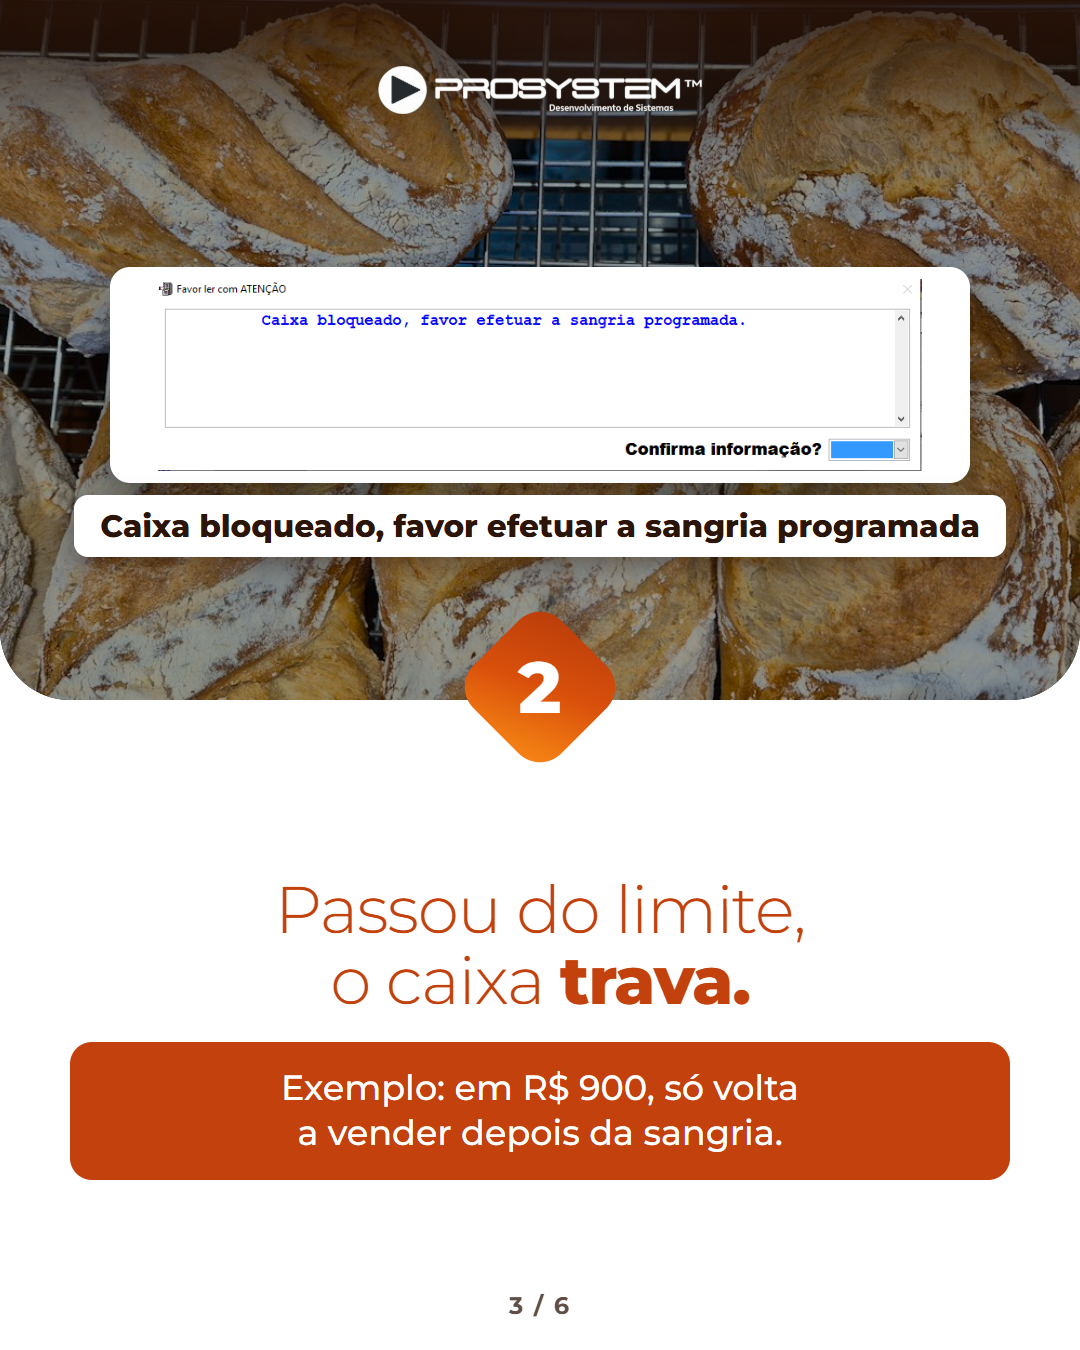
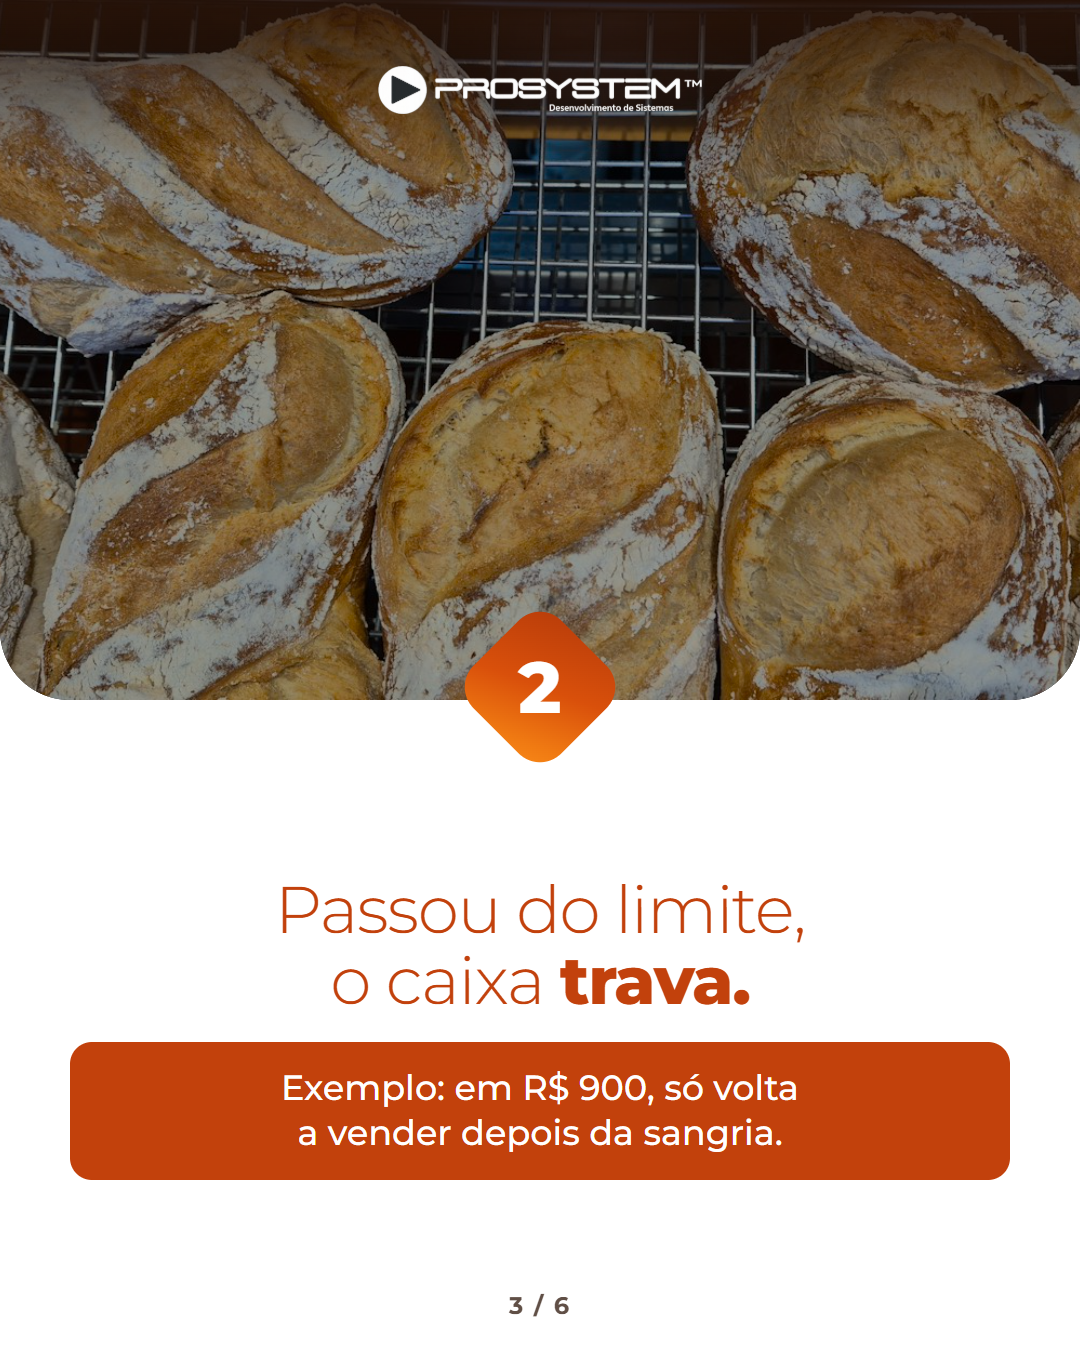
Carrossel da sangria (04/12): slide 3 sem a tela de bloqueio, que repetia a janela do aviso

Changed region(s): [[0.0611, 0.1867, 0.9472, 0.4356]]

diff --git a/docs/contexto/relatorios/2026-11-03-sangria-sem-tela-repetida.md b/docs/contexto/relatorios/2026-11-03-sangria-sem-tela-repetida.md
@@ -1,0 +1,21 @@
+# 03/11/2026 — Carrossel da sangria (padaria, 04/12): tela do sistema sem repetir
+
+## Pedido
+Print do documento de aprovação com o carrossel `carrossel-padaria-sangria-v2`: "pedi para nao repedir a mesma tela do sistema para nao ficar repetitivo, corrija".
+
+## Feito
+- `outputs/criativos/nov-dez/pecas-dados.js`: tirada a tela `sangria-bloqueio` do slide 3. A janela era a mesma do aviso no slide 2, só com outra frase. O slide 3 fica com a foto da grade de pães e o texto. Texto alternativo atualizado.
+- Peça regerada com `node gerar.js carrossel-padaria-sangria-v2` (`pecas/carrossel-padaria-sangria-v2-1.png` a `-6.png`).
+- `outputs/criativos/nov-dez/legendas.md`: `sangria-bloqueio` saiu da lista de mockups que a Jessica precisa fazer.
+- Documento https://claude.ai/artifact/3nx4JXdXoomuc4SZF91rCj: grade nova do 04/12 (1220×1010), "Aguarda mockup" só com `sangria-aviso` e `sangria-registro`, e `sangria-bloqueio` fora da lista de mockups.
+
+## Verificado
+- A mudança em `pecas-dados.js` entrou no commit ad081b4, de outra sessão que rodava ao mesmo tempo.
+- Gerador sem estouro de texto. Grade conferida: tela de aviso só no slide 2, tela de registro só no slide 4, os outros só com foto.
+- Outra sessão mexeu no documento ao mesmo tempo (revs 36 a 39: ficou só o 04/12 pendente). As mudanças dela foram mantidas.
+
+## Decisões e porquês
+- Aviso e bloqueio são a mesma janela do sistema. Pela regra de não repetir tela ("melhor deixar sem do que repetir"), ficou só a do aviso.
+
+## Próxima sessão
+- Mockups do carrossel: só `sangria-aviso` e `sangria-registro`.

diff --git a/outputs/criativos/nov-dez/legendas.md b/outputs/criativos/nov-dez/legendas.md
@@ -29,7 +29,7 @@ Arquivo gerado por `gerar.js`. Para mudar um texto, altere `pecas-dados.js` e ge
 | Ter 01/12 | Farmácia | `frase-dezembro-vermelho-v2` | Frase de impacto | - |
 | Qua 02/12 | Farmácia | `farmacia-escala-5x2-v2` | Foto com painel | - |
 | Qui 03/12 | Farmácia | `farmacia-dezembro-laranja-v2` | Foto com painel | - |
-| Sex 04/12 | Padaria | `carrossel-padaria-sangria-v2` | Carrossel V2 | `sangria-aviso`, `sangria-bloqueio`, `sangria-registro` |
+| Sex 04/12 | Padaria | `carrossel-padaria-sangria-v2` | Carrossel V2 | `sangria-aviso`, `sangria-registro` |
 | Seg 07/12 | Farmácia | `carrossel-farmacia-popular-v2` | Carrossel V2 | `receitas-scanner` |
 | Ter 08/12 | Os dois | `depoimento-samuel-v2.png` | Depoimento | - |
 | Qua 09/12 | Padaria | `padaria-dia-da-culinaria-v2` | Padaria com foto | - |
@@ -70,7 +70,6 @@ Só em notebook ou desktop, em balcão do segmento ou escritório. Salve em `moc
 | `painel-vendas-totais` | Qui 19/11 |
 | `analise-descontos` | Seg 23/11 |
 | `sangria-aviso` | Sex 04/12 |
-| `sangria-bloqueio` | Sex 04/12 |
 | `sangria-registro` | Sex 04/12 |
 | `receitas-scanner` | Seg 07/12 |
 | `combo-totais` | Qui 10/12 |
